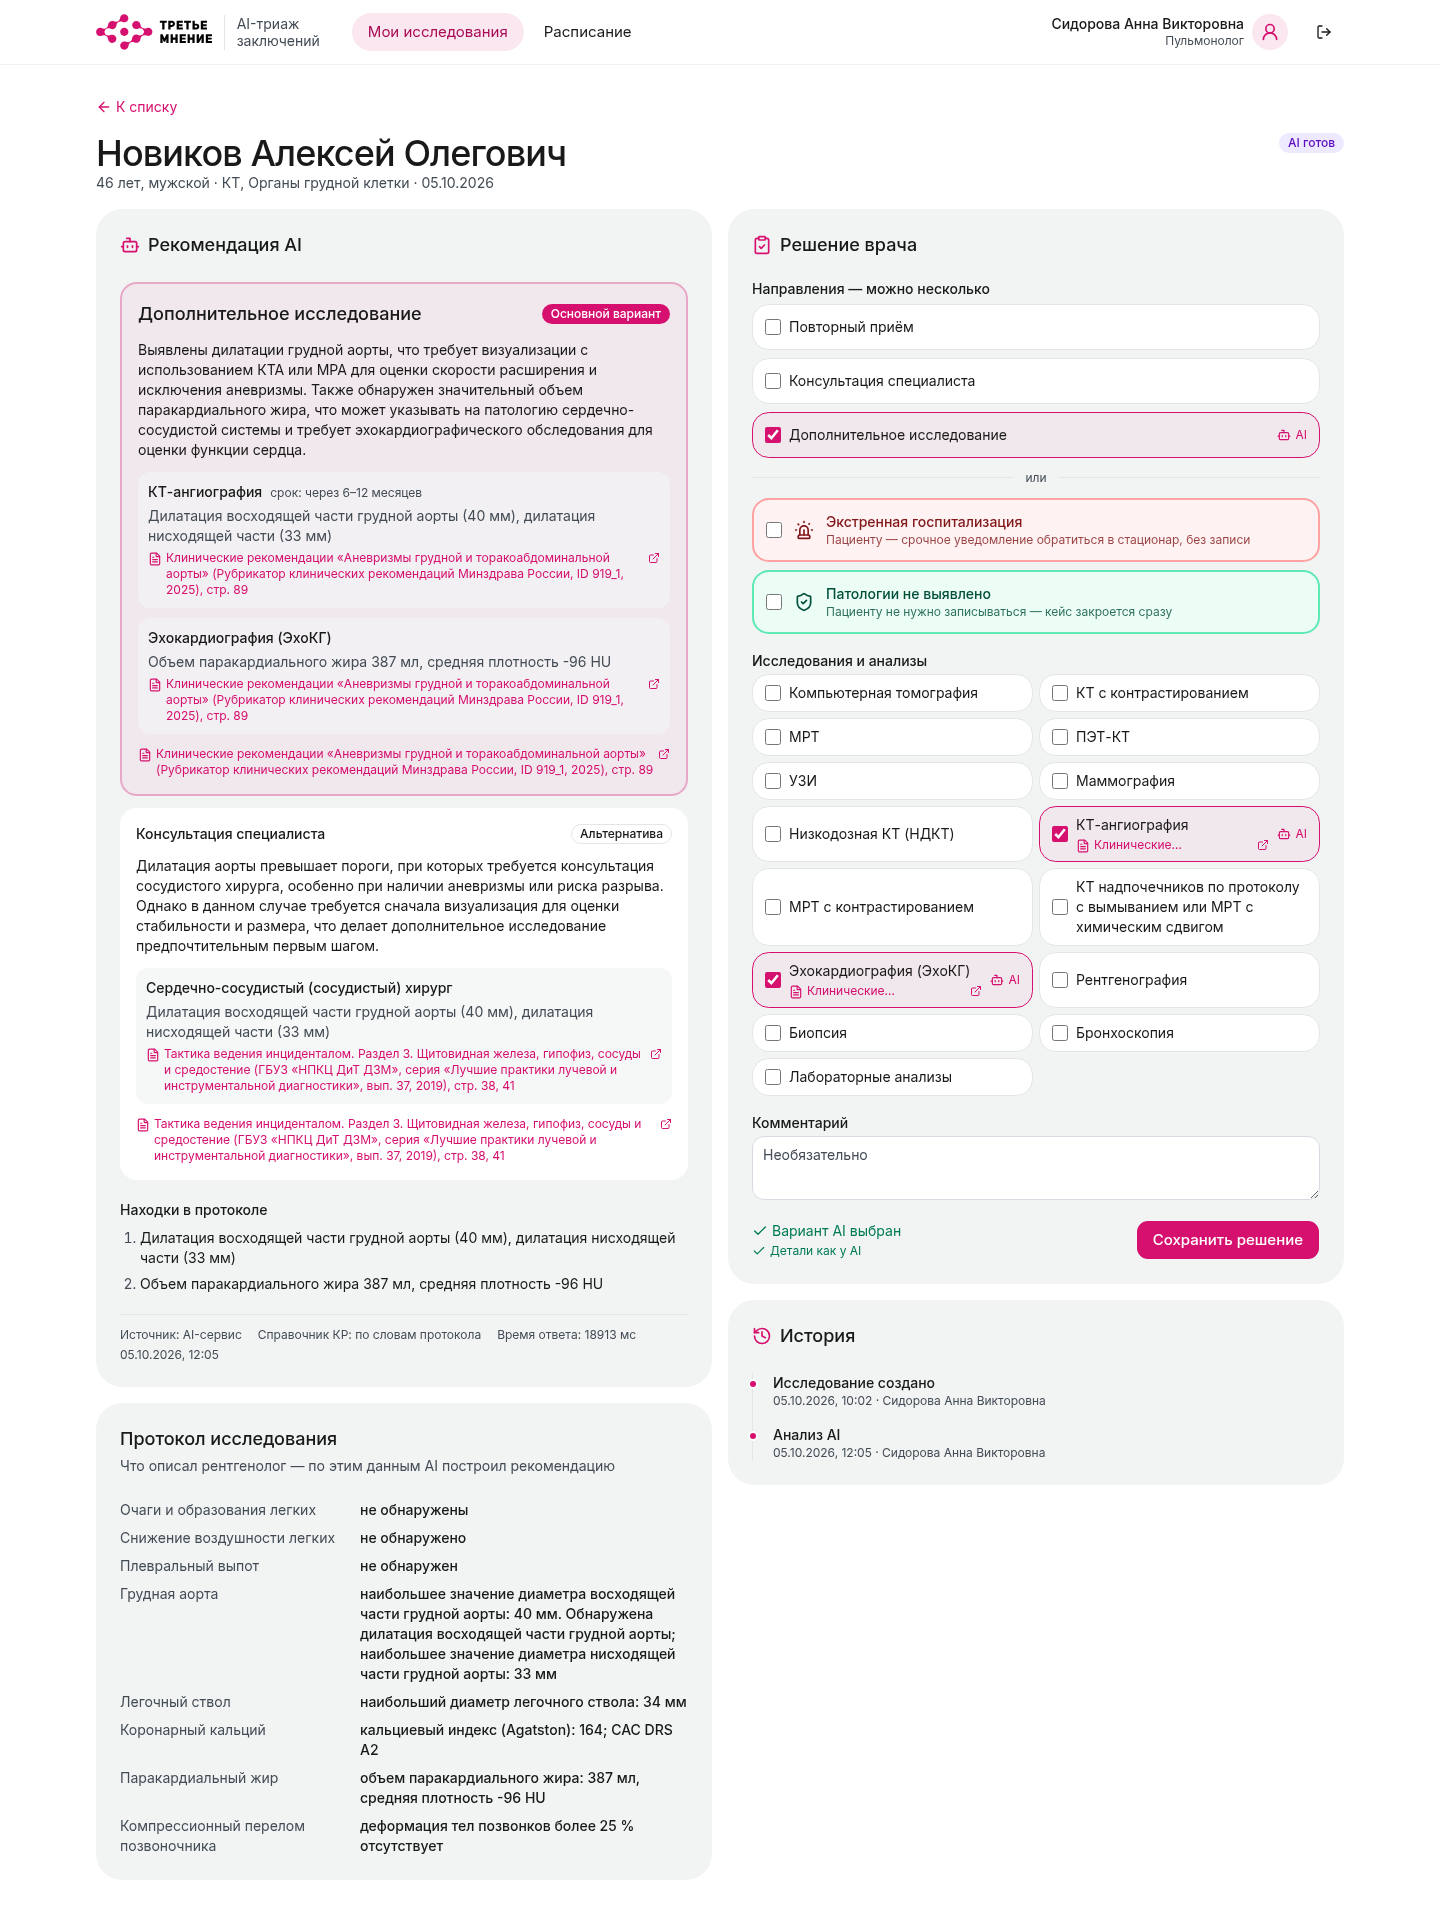
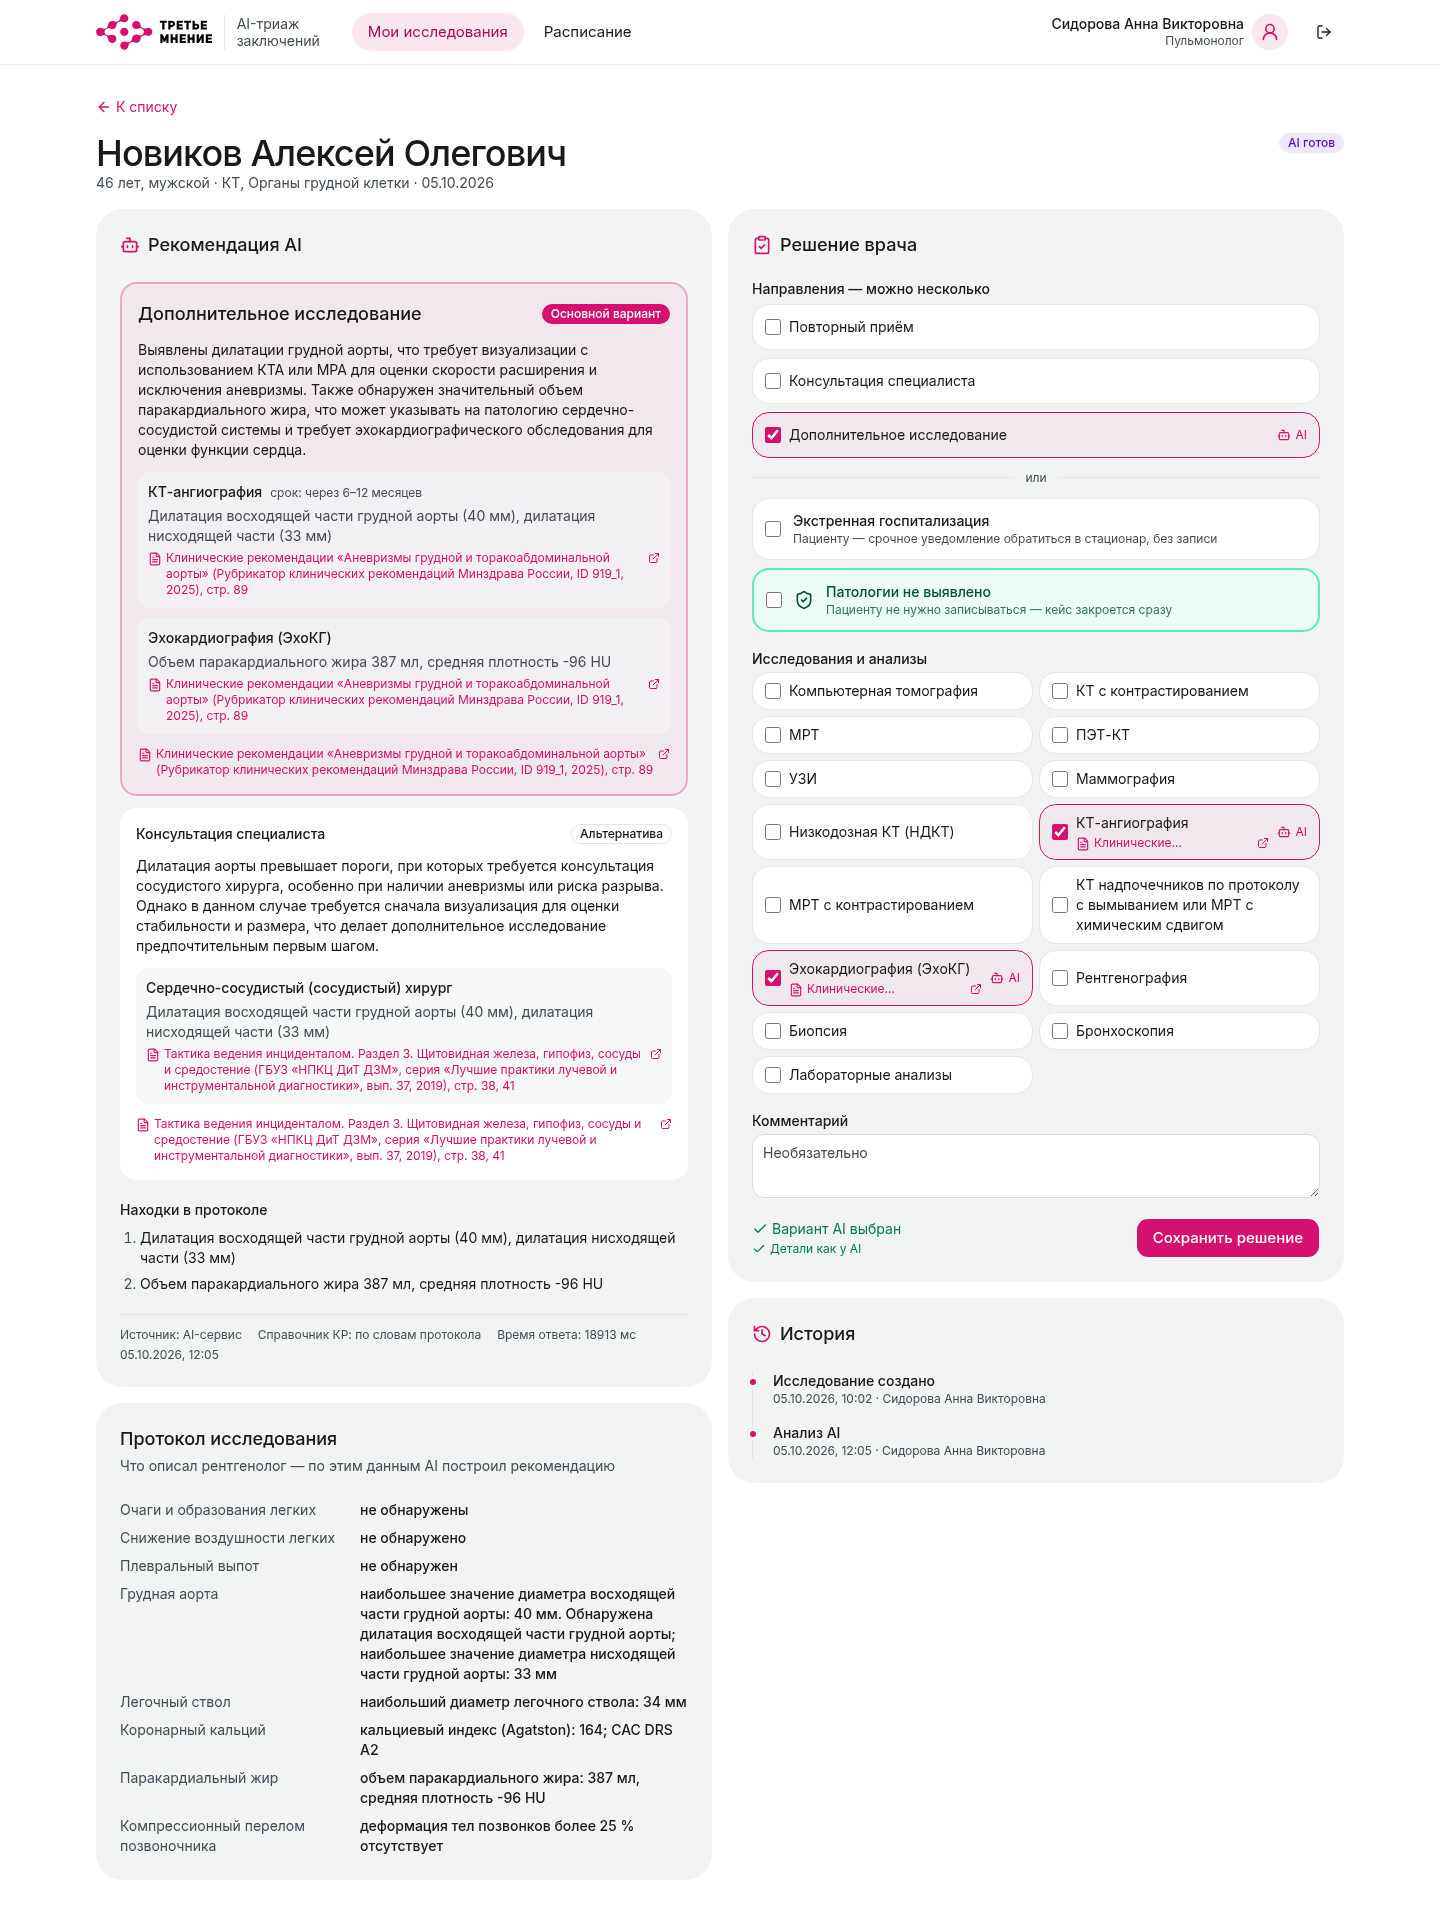
stylling

diff --git a/README.md b/README.md
@@ -79,17 +79,69 @@ flowchart LR
 - Свободные порты 3000 и 8000.
 - Для ответов модели — токен Hugging Face. Без него всё работает, исследования показывают «AI не отвечает».
 
-### Запуск
+### Запуск за 4 шага
+
+**1. Скачайте проект**
 
 ```bash
-git clone <репозиторий> && cd sitefortesting
-cp config/ai_service.env.example config/ai_service.env   # вписать HF_TOKEN (необязательно)
-cp config/backend.env.example    config/backend.env      # необязательно: рассылки, SITE_URL
+git clone https://github.com/Sicera-Med/sitefortesting.git
+cd sitefortesting
+```
+
+**2. Вставьте токен Hugging Face** — без него сайт работает, но вместо рекомендаций AI будет «AI не отвечает».
+
+Получите токен: [huggingface.co/settings/tokens](https://huggingface.co/settings/tokens) → «Create new token» → тип **Read** (или Fine-grained с правом «Make calls to Inference Providers») → скопируйте строку вида `hf_…`.
+
+Создайте файл настроек из шаблона:
+
+```bash
+cp config/ai_service.env.example config/ai_service.env
+```
+
+Откройте **`config/ai_service.env`** и вставьте токен после `HF_TOKEN=` (без кавычек и пробелов):
+
+```ini
+HF_TOKEN=hf_ваш_токен
+MODEL=Qwen/Qwen3-4B-Instruct-2507
+```
+
+**3. Запустите**
+
+```bash
 docker compose up --build
 ```
 
-- Сайт: http://localhost:3000 (с телефона в той же сети — `http://<IP-компьютера>:3000`)
-- Документация API (Swagger): http://localhost:8000/docs
+Первая сборка занимает несколько минут. Готово, когда в логах появится `frontend-1 | ✓ Ready`.
+
+**4. Откройте сайт:** http://localhost:3000 — войдите кнопкой быстрого входа (см. ниже).
+
+- С телефона в той же Wi-Fi-сети — `http://<IP-компьютера>:3000`
+- Документация API (Swagger) — http://localhost:8000/docs
+- Остановить — `Ctrl+C`, после смены настроек — снова `docker compose up --build`
+
+#### Необязательно: настоящие SMS и email
+
+```bash
+cp config/backend.env.example config/backend.env
+```
+
+В **`config/backend.env`** заполните:
+
+```ini
+NOTIFY_REAL=true
+# SMS: ключ API из кабинета smspilot.ru
+SMSPILOT_API_KEY=ваш_ключ
+# Email: ящик-отправитель и пароль приложения (id.yandex.ru → Безопасность → Пароли приложений)
+SMTP_USER=ящик@yandex.ru
+SMTP_PASSWORD=пароль_приложения
+# Куда придут SMS и письма всех демо-пациентов
+DEMO_CONTACT_PHONE=+79990000000
+DEMO_CONTACT_EMAIL=you@example.com
+# Адрес сайта в ссылках из SMS и писем
+SITE_URL=http://<IP-компьютера>:3000
+```
+
+Без этого файла рассылки не отправляются — уведомления видны только в личном кабинете пациента.
 
 ### Демо-аккаунты
 
